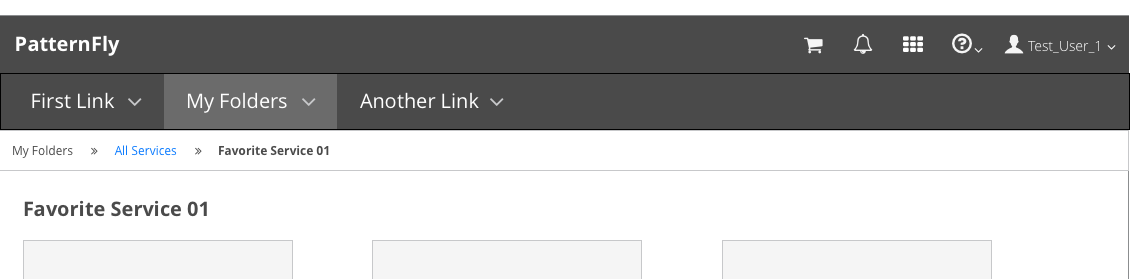
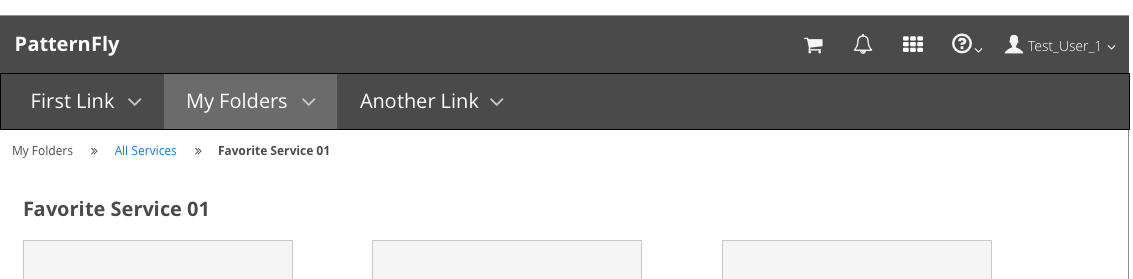
Updating images based on feedback

Changed region(s): [[0.0, 0.6022, 1.0, 0.6308], [0.0, 0.4588, 1.0, 0.4875]]

diff --git a/pattern-library/navigation/breadcrumbs/design/design.md b/pattern-library/navigation/breadcrumbs/design/design.md
@@ -6,6 +6,7 @@
   2. **Icon:**  The "fa-angle-double-right" Font Awesome icon should be used to separate levels in the breadcrumb string.
   3. **Links:** All drill down pages that the user can navigate back to, should be shown as links in the breadcrumb string. The underline should appear when the user hovers over a link.
   4. **Current Location:** The end of the breadcrumb string should represent the page a user is currently viewing. This string should be bold text and should not be a link.
+  5. **Divider** (optional): A horizontal divider may be present below the breadcrumbs depending on the page layout used inside an application. If this format is used, it should be used consistently throughout the application.
 
 ## Vertical Navigation Example
 ![Vertical Navigation Example](img/Breadcrumbs-03.png)
@@ -18,4 +19,4 @@ When secondary navigation items are hidden, breadcrumbs may be used in conjuncti
 ## Example with Optional Page Title
 ![Example with Optional Page Title ](img/Breadcrumbs-05.png)
 
-1. **Current Location:** The end of the breadcrumb can also play the role of page title in an effort to conserve vertical space. If this format is used, it should be carried out for all breadcrumb instances in an application.
+1. **Current Location:** The end of the breadcrumb can also play the role of page title in an effort to conserve vertical space. This option would include use of a larger font for the end of the breadcrumb string. If this format is used, it should be used consistently throughout the application.
